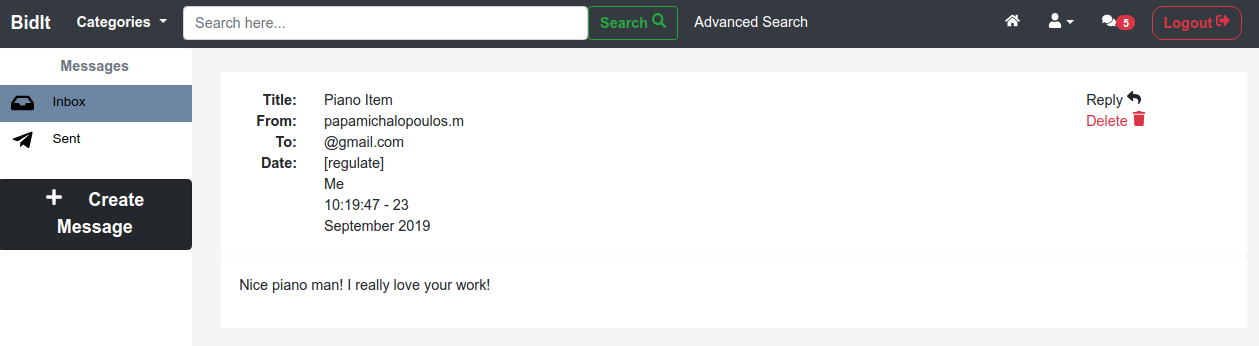
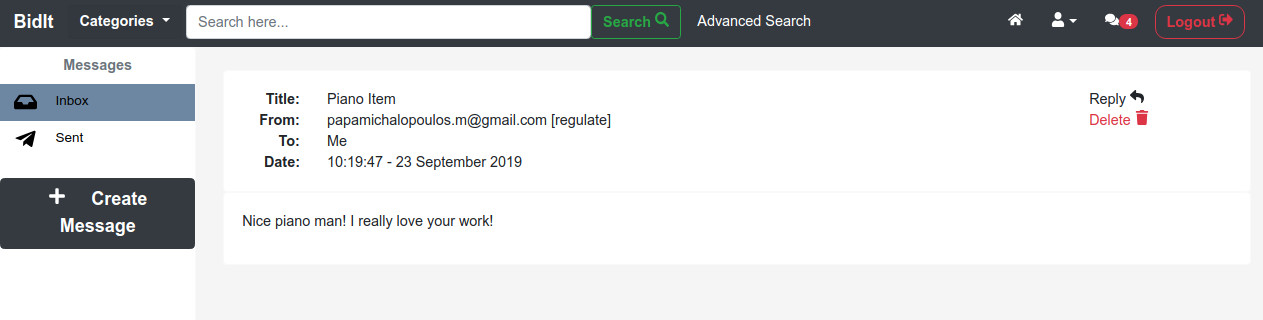
Fixed a bug for an image

diff --git a/src/main/resources/static/reactjs/components/user/messages/message.js b/src/main/resources/static/reactjs/components/user/messages/message.js
@@ -173,7 +173,7 @@ class Message extends React.Component{
                                                         </Col>
 
                                                         {inbox ? (
-                                                            <Col md={2}>
+                                                            <Col md={5}>
                                                                 {this.state.message.header}
                                                                 <br/>
                                                                 {this.state.message.otherUser.email} [{this.state.message.otherUser.username}]
@@ -183,7 +183,7 @@ class Message extends React.Component{
                                                                 {timeDecoder(this.state.message.timeSent)} - {dateDecoder(this.state.message.timeSent)}
                                                             </Col>
                                                         ) : (
-                                                            <Col md={2}>
+                                                            <Col md={5}>
                                                                 {this.state.message.header}
                                                                 <br/>
                                                                 Me
@@ -194,7 +194,7 @@ class Message extends React.Component{
                                                             </Col>
                                                         )}
 
-                                                        <Col md={{offset:7}}>
+                                                        <Col md={{offset:4}}>
                                                             <ul style={{listStyleType: 'none'}}>
                                                                 <li>
                                                                     <span className='clickable' onClick={this.replyMsg}>
